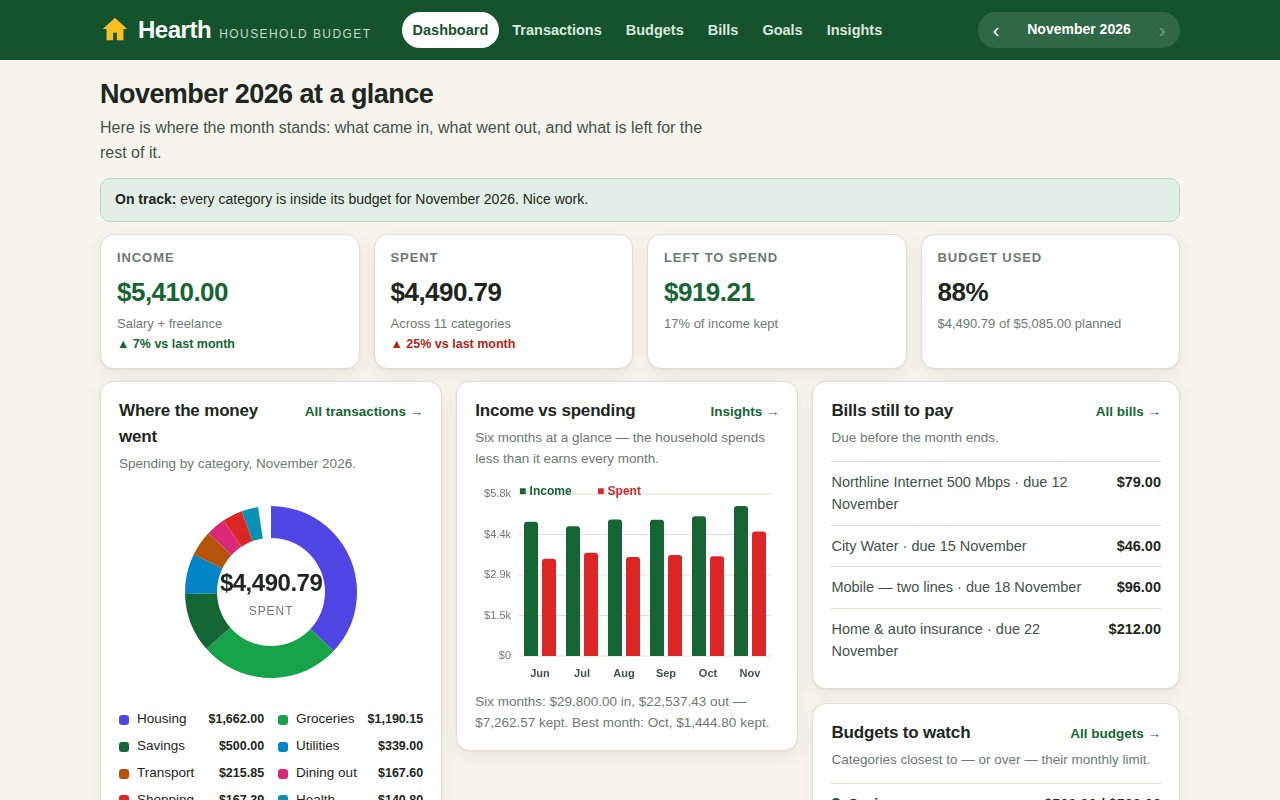
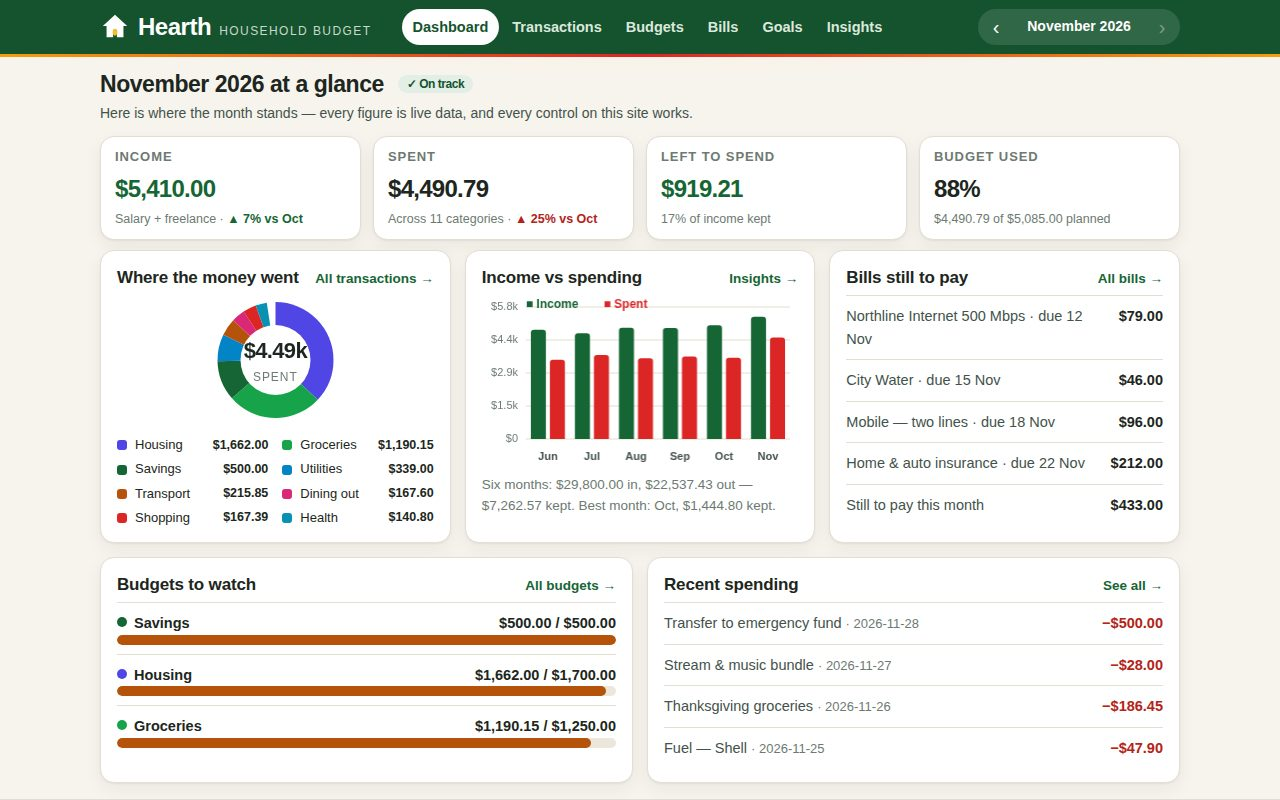
v3: Bills and Insights pages in screenshots, clean cover fold, phone nav fixed

Changed region(s): [[0.0, 0.0, 1.0, 1.0]]

diff --git a/app/js/app.js b/app/js/app.js
@@ -94,17 +94,16 @@ function statCard(label, value, note, tone, delta) {
   return `<div class="stat ${tone || ""}">
     <div class="label">${label}</div>
     <div class="value money">${value}</div>
-    <div class="note">${note}</div>
-    ${delta ? `<div class="delta ${delta.dir}">${delta.text}</div>` : ""}
+    <div class="note">${note}${delta ? ` · <span class="delta ${delta.dir}">${delta.text}</span>` : ""}</div>
   </div>`;
 }
 
-function deltaVs(current, previous, invert) {
+function deltaVs(current, previous, invert, label) {
   if (!previous) return null;
   const pct = Math.round(((current - previous) / previous) * 100);
-  if (pct === 0) return { dir: "", text: "Same as last month" };
+  if (pct === 0) return { dir: "", text: "Same as " + label };
   const good = invert ? pct < 0 : pct > 0;
-  return { dir: good ? "up" : "down", text: `${pct > 0 ? "▲" : "▼"} ${Math.abs(pct)}% vs last month` };
+  return { dir: good ? "up" : "down", text: `${pct > 0 ? "▲" : "▼"} ${Math.abs(pct)}% vs ${label}` };
 }
 
 function renderDashboard() {
@@ -122,12 +121,13 @@ function renderDashboard() {
     .filter((b) => !(state.billsPaid[currentMonth] || []).includes(b.id))
     .sort((a, b) => a.day - b.day)
     .slice(0, 4);
-  const recent = monthTransactions(currentMonth).slice().sort((a, b) => b.date.localeCompare(a.date)).slice(0, 5);
+  const upcomingTotal = upcoming.reduce((sum, b) => sum + b.amount, 0);
+  const recent = monthTransactions(currentMonth).slice().sort((a, b) => b.date.localeCompare(a.date)).slice(0, 4);
   const savingsRate = totals.income > 0 ? Math.round(((totals.income - totals.spent) / totals.income) * 100) : 0;
 
-  const alert = over.length
-    ? `<p class="callout"><strong>Heads up:</strong> ${over.map((c) => esc(c.name)).join(", ")} ${over.length === 1 ? "is" : "are"} over budget this month. <a href="#/budgets">Review budgets</a></p>`
-    : `<p class="callout good"><strong>On track:</strong> every category is inside its budget for ${esc(monthName(currentMonth))}. Nice work.</p>`;
+  const statusPill = over.length
+    ? `<span class="pill amber">⚠ ${over.length} over budget</span>`
+    : `<span class="pill">✓ On track</span>`;
 
   const prevMonth = MONTHS[Math.max(0, MONTHS.indexOf(currentMonth) - 1)];
   const prevTotals = monthTotals(prevMonth);
@@ -143,47 +143,41 @@ function renderDashboard() {
 
   document.getElementById("view").innerHTML = `
     <div class="page-head">
-      <h1>${esc(monthName(currentMonth))} at a glance</h1>
-      <p>Here is where the month stands: what came in, what went out, and what is left for the rest of it.</p>
+      <h1>${esc(monthName(currentMonth))} at a glance ${statusPill}</h1>
+      <p>Here is where the month stands — every figure is live data, and every control on this site works.</p>
     </div>
-    ${alert}
     <div class="stats">
-      ${statCard("Income", fmtMoney(totals.income), "Salary + freelance", "good", hasPrev ? deltaVs(totals.income, prevTotals.income, false) : null)}
-      ${statCard("Spent", fmtMoney(totals.spent), "Across " + Object.keys(spent).length + " categories", totals.spent > totals.income ? "bad" : "", hasPrev ? deltaVs(totals.spent, prevTotals.spent, true) : null)}
+      ${statCard("Income", fmtMoney(totals.income), "Salary + freelance", "good", hasPrev ? deltaVs(totals.income, prevTotals.income, false, monthShort(prevMonth)) : null)}
+      ${statCard("Spent", fmtMoney(totals.spent), "Across " + Object.keys(spent).length + " categories", totals.spent > totals.income ? "bad" : "", hasPrev ? deltaVs(totals.spent, prevTotals.spent, true, monthShort(prevMonth)) : null)}
       ${statCard("Left to spend", fmtMoney(totals.income - totals.spent), savingsRate + "% of income kept", totals.income - totals.spent < 0 ? "bad" : "good")}
       ${statCard("Budget used", Math.round((budgetSpent / budgetTotal) * 100) + "%", fmtMoney(budgetSpent) + " of " + fmtMoney(budgetTotal) + " planned", over.length ? "warn" : "")}
     </div>
-    <div class="grid grid-main">
-      <div class="stack">
-        <div class="grid grid-2 grid-start">
-          <section class="card">
-            <div class="card-head"><h2>Where the money went</h2><a href="#/transactions">All transactions &rarr;</a></div>
-            <p class="sub">Spending by category, ${esc(monthName(currentMonth))}.</p>
-            <div class="chart-wrap">
-              <canvas id="donut" aria-label="Donut chart of spending by category" role="img"></canvas>
-              <div class="chart-center"><span class="big">${fmtMoney(totalSpent)}</span><span class="small">spent</span></div>
-            </div>
-            <ul class="legend two-col">
-              ${topSlices.map((s) => `<li><span class="dot" style="background:${s.color}"></span>${esc(s.label)}<span class="amt money">${fmtMoney(s.value)}</span></li>`).join("")}
-            </ul>
-          </section>
-          <section class="card">
-            <div class="card-head"><h2>Income vs spending</h2><a href="#/insights">Insights &rarr;</a></div>
-            <p class="sub">Six months at a glance — the household spends less than it earns every month.</p>
-            <div class="chart-wrap"><canvas id="bars" aria-label="Bar chart of income versus spending over six months" role="img"></canvas></div>
-            <p class="sub" style="margin:10px 0 0">Six months: ${fmtMoney(sixIn)} in, ${fmtMoney(sixOut)} out — ${fmtMoney(sixIn - sixOut)} kept. Best month: ${esc(bestMonth.label)}, ${fmtMoney(bestMonth.income - bestMonth.spent)} kept.</p>
-          </section>
-        </div>
-      </div>
-      <div class="stack">
+    <div class="stack">
+      <div class="grid grid-3">
         <section class="card">
-          <div class="card-head"><h2>Bills still to pay</h2><a href="#/bills">All bills &rarr;</a></div>
-          <p class="sub">${upcoming.length ? "Due before the month ends." : "Everything is paid for this month."}</p>
-          ${upcoming.map((b) => `<div class="kv"><span class="k">${esc(b.name)} · due ${b.day} ${esc(monthName(currentMonth).split(" ")[0])}</span><span class="v money">${fmtMoney(b.amount)}</span></div>`).join("") || `<p class="empty">No bills left — enjoy the rest of the month.</p>`}
+          <div class="card-head"><h2>Where the money went</h2><a href="#/transactions">All transactions &rarr;</a></div>
+          <div class="chart-wrap">
+            <canvas id="donut" aria-label="Donut chart of spending by category" role="img"></canvas>
+            <div class="chart-center"><span class="big">$${(totalSpent / 1000).toFixed(2)}k</span><span class="small">spent</span></div>
+          </div>
+          <ul class="legend two-col">
+            ${topSlices.map((s) => `<li><span class="dot" style="background:${s.color}"></span>${esc(s.label)}<span class="amt money">${fmtMoney(s.value)}</span></li>`).join("")}
+          </ul>
         </section>
         <section class="card">
+          <div class="card-head"><h2>Income vs spending</h2><a href="#/insights">Insights &rarr;</a></div>
+          <div class="chart-wrap"><canvas id="bars" aria-label="Bar chart of income versus spending over six months" role="img"></canvas></div>
+          <p class="sub" style="margin:10px 0 0">Six months: ${fmtMoney(sixIn)} in, ${fmtMoney(sixOut)} out — ${fmtMoney(sixIn - sixOut)} kept. Best month: ${esc(bestMonth.label)}, ${fmtMoney(bestMonth.income - bestMonth.spent)} kept.</p>
+        </section>
+        <section class="card">
+          <div class="card-head"><h2>Bills still to pay</h2><a href="#/bills">All bills &rarr;</a></div>
+          ${upcoming.map((b) => `<div class="kv"><span class="k">${esc(b.name)} · due ${b.day} ${esc(monthShort(currentMonth))}</span><span class="v money">${fmtMoney(b.amount)}</span></div>`).join("") || `<p class="empty">No bills left — enjoy the rest of the month.</p>`}
+          <div class="kv"><span class="k">Still to pay this month</span><span class="v money">${fmtMoney(upcomingTotal)}</span></div>
+        </section>
+      </div>
+      <div class="grid grid-2">
+        <section class="card">
           <div class="card-head"><h2>Budgets to watch</h2><a href="#/budgets">All budgets &rarr;</a></div>
-          <p class="sub">Categories closest to — or over — their monthly limit.</p>
           ${CATEGORIES.map((c) => ({ c, used: (spent[c.id] || 0) / (state.budgets[c.id] || 1) }))
             .sort((a, b) => b.used - a.used).slice(0, 3)
             .map(({ c, used }) => `<div class="budget-row">
@@ -193,7 +187,7 @@ function renderDashboard() {
         </section>
         <section class="card">
           <div class="card-head"><h2>Recent spending</h2><a href="#/transactions">See all &rarr;</a></div>
-          ${recent.map((tx) => `<div class="kv"><span class="k">${esc(tx.desc)}<br><span class="tx-date">${esc(tx.date)}</span></span><span class="v money ${tx.amount < 0 ? "neg" : "pos"}">${fmtMoney(tx.amount, true)}</span></div>`).join("")}
+          ${recent.map((tx) => `<div class="kv"><span class="k">${esc(tx.desc)} <span class="tx-date">· ${esc(tx.date)}</span></span><span class="v money ${tx.amount < 0 ? "neg" : "pos"}">${fmtMoney(tx.amount, true)}</span></div>`).join("")}
         </section>
       </div>
     </div>`;
@@ -480,7 +474,7 @@ function renderInsights() {
       <h1>Insights</h1>
       <p>What ${esc(monthName(currentMonth))} actually says about this household's money — computed from the real transactions, not guesses.</p>
     </div>
-    <div class="grid grid-main">
+    <div class="grid grid-2">
       <section class="card">
         <h2>What stands out</h2>
         <div class="insight"><span class="mark">$</span><p><b>Biggest cost: ${esc(topCat ? categoryById(topCat[0]).name : "—")} at ${fmtMoney(topCat ? topCat[1] : 0)}.</b> ${topCat && topCat[0] === "groceries" ? "Groceries lead every month — meal planning is the single biggest lever this household has." : "It leads spending this month."}</p></div>
@@ -492,12 +486,13 @@ function renderInsights() {
       <div class="stack">
         <section class="card">
           <h2>This month vs last</h2>
+          <div class="kv-list two-col">
           ${CATEGORIES.map((c) => {
             const now = spent[c.id] || 0;
             const then = categorySpent(prevMonth)[c.id] || 0;
             const diff = then ? Math.round(((now - then) / then) * 100) : null;
             return `<div class="kv"><span class="k"><span class="dot" style="display:inline-block;width:9px;height:9px;border-radius:50%;background:${c.color};margin-right:6px"></span>${esc(c.name)}</span><span class="v money">${fmtMoney(now)} <span style="color:var(--muted);font-weight:400">${diff === null ? "—" : (diff >= 0 ? "+" : "") + diff + "%"}</span></span></div>`;
-          }).join("")}
+          }).join("")}</div>
         </section>
         <section class="card">
           <h2>Three moves for next month</h2>

diff --git a/app/css/style.css b/app/css/style.css
@@ -26,7 +26,7 @@
 
 body {
   margin: 0;
-  background: var(--bg);
+  background: radial-gradient(1200px 300px at 50% -120px, #fbeed3 0%, rgba(251, 238, 211, 0) 70%), var(--bg);
   color: var(--ink);
   font-family: var(--font);
   font-size: 16px;
@@ -42,9 +42,10 @@ input, select { font-family: inherit; font-size: 15px; }
 
 /* Header */
 .topbar { background: var(--green-deep); color: #fff; position: sticky; top: 0; z-index: 20; }
-.topbar-inner { display: flex; align-items: center; gap: 22px; min-height: 60px; flex-wrap: wrap; padding-top: 6px; padding-bottom: 6px; }
+.ember { height: 3px; background: linear-gradient(90deg, #f59e0b, #dc2626 50%, #f59e0b); }
+.topbar-inner { display: flex; align-items: center; gap: 22px; min-height: 54px; flex-wrap: wrap; padding-top: 4px; padding-bottom: 4px; }
 .brand { display: flex; align-items: baseline; gap: 8px; color: #fff; text-decoration: none; }
-.brand-mark { color: #fbbf24; align-self: center; display: inline-flex; }
+.brand-mark { color: #fff; align-self: center; display: inline-flex; }
 .brand-name { font-size: 24px; font-weight: 800; letter-spacing: -0.02em; }
 .brand-tag { font-size: 12px; color: #c8d8cc; text-transform: uppercase; letter-spacing: 0.12em; }
 .mainnav { display: flex; gap: 2px; flex-wrap: wrap; margin-left: 8px; }
@@ -64,10 +65,11 @@ input, select { font-family: inherit; font-size: 15px; }
 #month-label { font-size: 14px; font-weight: 700; min-width: 128px; text-align: center; }
 
 /* Layout */
-main.wrap { padding-top: 16px; padding-bottom: 28px; }
+main.wrap { padding-top: 12px; padding-bottom: 16px; }
 .page-head { margin: 2px 0 12px; }
-.page-head h1 { font-size: 27px; line-height: 1.2; letter-spacing: -0.02em; margin: 0 0 6px; }
-.page-head p { margin: 0; color: var(--ink-soft); max-width: 68ch; }
+.page-head h1 { font-size: 23px; line-height: 1.2; letter-spacing: -0.02em; margin: 0 0 4px; }
+.page-head p { margin: 0; color: var(--ink-soft); max-width: 110ch; font-size: 14px; }
+.page-head h1 .pill { vertical-align: 4px; margin-left: 8px; }
 .grid { display: grid; gap: 14px; }
 .grid-start { align-items: start; }
 .grid-2 { grid-template-columns: 1fr 1fr; }
@@ -75,7 +77,7 @@ main.wrap { padding-top: 16px; padding-bottom: 28px; }
 .grid-main { grid-template-columns: 1.9fr 1fr; align-items: start; }
 .card {
   background: var(--surface); border: 1px solid var(--line); border-radius: var(--radius);
-  box-shadow: var(--shadow); padding: 16px 18px;
+  box-shadow: var(--shadow); padding: 14px 16px;
 }
 .card h2 { font-size: 17px; margin: 0 0 4px; letter-spacing: -0.01em; }
 .card h3 { font-size: 15px; margin: 0 0 8px; }
@@ -85,11 +87,11 @@ main.wrap { padding-top: 16px; padding-bottom: 28px; }
 .stack { display: grid; gap: 14px; }
 
 /* Stat cards */
-.stats { display: grid; grid-template-columns: repeat(4, 1fr); gap: 14px; margin-bottom: 12px; }
-.stat { background: var(--surface); border: 1px solid var(--line); border-radius: var(--radius); box-shadow: var(--shadow); padding: 13px 16px; }
+.stats { display: grid; grid-template-columns: repeat(4, 1fr); gap: 12px; margin-bottom: 10px; }
+.stat { background: var(--surface); border: 1px solid var(--line); border-radius: var(--radius); box-shadow: var(--shadow); padding: 10px 14px; }
 .stat .label { font-size: 13px; font-weight: 700; color: var(--muted); text-transform: uppercase; letter-spacing: 0.07em; }
-.stat .value { font-size: 26px; font-weight: 800; letter-spacing: -0.02em; margin-top: 4px; }
-.stat .note { font-size: 13px; color: var(--muted); margin-top: 2px; }
+.stat .value { font-size: 24px; font-weight: 800; letter-spacing: -0.03em; margin-top: 3px; font-variant-numeric: tabular-nums; }
+.stat .note { font-size: 12.5px; color: var(--muted); margin-top: 2px; }
 .stat .delta { font-size: 12.5px; font-weight: 700; margin-top: 1px; }
 .stat .delta.up { color: var(--green); }
 .stat .delta.down { color: var(--red); }
@@ -156,6 +158,8 @@ form label input:focus, form label select:focus { outline: 2px solid var(--green
 
 /* Lists */
 .kv { display: flex; justify-content: space-between; gap: 12px; padding: 9px 0; border-top: 1px solid var(--line); font-size: 14.5px; }
+.kv-list.two-col { display: grid; grid-template-columns: 1fr 1fr; column-gap: 18px; }
+.kv-list.two-col .kv:nth-child(2) { border-top: 0; }
 .kv:first-of-type { border-top: 0; }
 .kv .k { color: var(--ink-soft); }
 .kv .v { font-weight: 700; text-align: right; }
@@ -178,7 +182,7 @@ form label input:focus, form label select:focus { outline: 2px solid var(--green
 }
 .insight p { margin: 0; font-size: 14.5px; }
 .insight p b { font-weight: 800; }
-.legend { list-style: none; margin: 12px 0 0; padding: 0; display: grid; gap: 6px; font-size: 13.5px; }
+.legend { list-style: none; margin: 10px 0 0; padding: 0; display: grid; gap: 4px; font-size: 13px; }
 .legend.two-col { grid-template-columns: 1fr 1fr; column-gap: 14px; }
 .legend.two-col .amt { font-size: 12.5px; }
 .legend li { display: flex; align-items: center; gap: 8px; }
@@ -190,14 +194,14 @@ form label input:focus, form label select:focus { outline: 2px solid var(--green
   position: absolute; inset: 0; display: flex; flex-direction: column; align-items: center; justify-content: center;
   pointer-events: none; text-align: center;
 }
-.chart-center .big { font-size: 24px; font-weight: 800; letter-spacing: -0.02em; }
+.chart-center .big { font-size: 22px; font-weight: 800; letter-spacing: -0.03em; font-variant-numeric: tabular-nums; }
 .chart-center .small { font-size: 12px; color: var(--muted); text-transform: uppercase; letter-spacing: 0.08em; }
 .empty { color: var(--muted); font-size: 14.5px; padding: 18px 0; text-align: center; }
-.callout { background: var(--amber-soft); border: 1px solid #f3d9ae; border-radius: 10px; padding: 10px 14px; font-size: 14px; margin: 0 0 12px; }
+.callout { background: var(--amber-soft); border: 1px solid #f3d9ae; border-radius: 10px; padding: 8px 12px; font-size: 14px; margin: 0 0 10px; }
 .callout.good { background: var(--green-soft); border-color: #bcd8c2; }
 
 /* Footer */
-.footer { border-top: 1px solid var(--line); background: var(--surface-warm); padding: 26px 0 34px; color: var(--ink-soft); font-size: 14px; }
+.footer { border-top: 1px solid var(--line); background: var(--surface-warm); padding: 18px 0 24px; color: var(--ink-soft); font-size: 14px; }
 .footer-actions { display: flex; gap: 8px; flex-wrap: wrap; align-items: center; }
 .footer-actions button, .import-label {
   border: 1px solid #cfc8b8; background: #fff; color: var(--ink); font-weight: 650;
@@ -225,13 +229,13 @@ form label input:focus, form label select:focus { outline: 2px solid var(--green
 
 /* Responsive */
 @media (max-width: 900px) {
-  .grid-main, .grid-2 { grid-template-columns: 1fr; }
+  .grid-main, .grid-2, .grid-3 { grid-template-columns: 1fr; }
   .stats { grid-template-columns: 1fr 1fr; }
 }
 @media (max-width: 620px) {
   .topbar-inner { gap: 10px; }
-  .mainnav { order: 3; width: 100%; overflow-x: auto; flex-wrap: nowrap; padding-bottom: 4px; }
-  .mainnav a { white-space: nowrap; }
+  .mainnav { order: 3; width: 100%; display: grid; grid-template-columns: repeat(3, 1fr); gap: 4px; overflow-x: visible; flex-wrap: wrap; padding-bottom: 2px; }
+  .mainnav a { white-space: nowrap; text-align: center; padding: 7px 4px; font-size: 13.5px; }
   .month-picker { margin-left: auto; }
   #month-label { min-width: 104px; }
   .stats { grid-template-columns: 1fr 1fr; }

diff --git a/app/js/charts.js b/app/js/charts.js
@@ -18,16 +18,16 @@ function moneyShort(value) {
 }
 
 // Donut: shares of spending by category. slices = [{label, value, color}]
-// Kept compact (210px) so the dashboard's trend chart below it still shows
+// Drawn compact (130px) so the dashboard's first screen ends cleanly
 // inside a 1280x800 viewport.
 export function drawDonut(canvas, slices, total) {
   const width = canvas.clientWidth || 320;
-  const height = 210;
+  const height = 130;
   const ctx = setupCanvas(canvas, width, height);
   const cx = width / 2;
   const cy = height / 2;
-  const outer = 86;
-  const inner = 54;
+  const outer = 58;
+  const inner = 35;
   let start = -Math.PI / 2;
   for (const slice of slices) {
     const angle = (slice.value / total) * Math.PI * 2;
@@ -49,10 +49,10 @@ export function drawDonut(canvas, slices, total) {
 }
 
 // Bars: one bar per month, income vs spending. months = [{label, income, spent}]
-// Kept compact (200px) so the card fits the first viewport on the dashboard.
+// Kept compact (170px) so the card fits the first viewport on the dashboard.
 export function drawBars(canvas, months) {
   const width = canvas.clientWidth || 640;
-  const height = 200;
+  const height = 170;
   const ctx = setupCanvas(canvas, width, height);
   const padLeft = 44;
   const padBottom = 26;

diff --git a/app/index.html b/app/index.html
@@ -12,7 +12,7 @@
   <div class="wrap topbar-inner">
     <a class="brand" href="#/" aria-label="Hearth home">
       <span class="brand-mark" aria-hidden="true">
-        <svg viewBox="0 0 32 32" width="30" height="30"><path d="M16 3 3 15h4v12h7v-8h4v8h7V15h4L16 3z" fill="currentColor"/></svg>
+        <svg viewBox="0 0 32 32" width="30" height="30"><path d="M16 3 3 15h4v12h7v-8h4v8h7V15h4L16 3z" fill="currentColor"/><path d="M16 17.5c-2.4 1.8-3 3.6-2.4 5.4.5 1.6 2.4 2.6 2.4 2.6s1.9-1 2.4-2.6c.6-1.8 0-3.6-2.4-5.4z" fill="#fbbf24"/></svg>
       </span>
       <span class="brand-name">Hearth</span>
       <span class="brand-tag">household budget</span>
@@ -32,6 +32,7 @@
     </div>
   </div>
 </header>
+<div class="ember" aria-hidden="true"></div>
 
 <main id="view" class="wrap" aria-live="polite"></main>
 

diff --git a/main.ts b/main.ts
@@ -1,5 +1,12 @@
 // Hearth — household budget site entry (Node 22, standard library only).
 //
+// v3: the dashboard was rebuilt so its first screen ends cleanly in a
+// 1280x800 viewport (three-column chart row, then budgets and recent
+// spending), Bills and Insights got their own screenshots, the phone nav
+// shows all six links, and the design carries a hearth motif throughout:
+// a house-and-flame mark, an ember strip under the header, and a warm
+// firelight glow behind the page.
+//
 // The site is this directory's app/ folder: plain static files a browser opens
 // at app/index.html (ES modules, CSS, no build step), its content held in its
 // own files — nothing it runs, styles or shows loads over the network.
